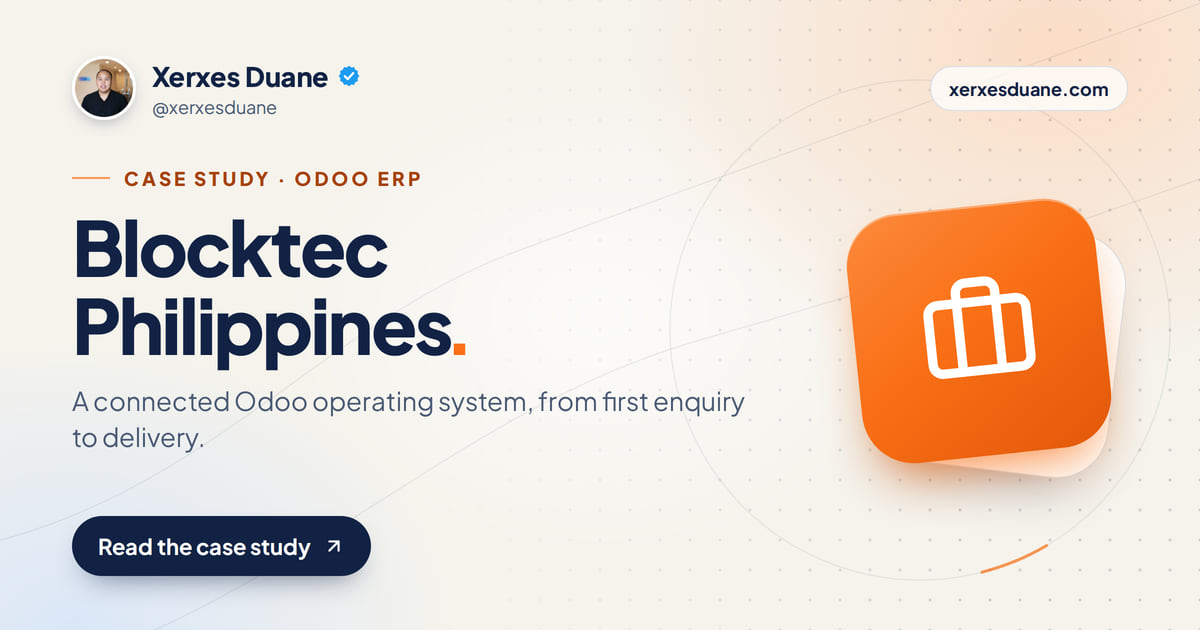
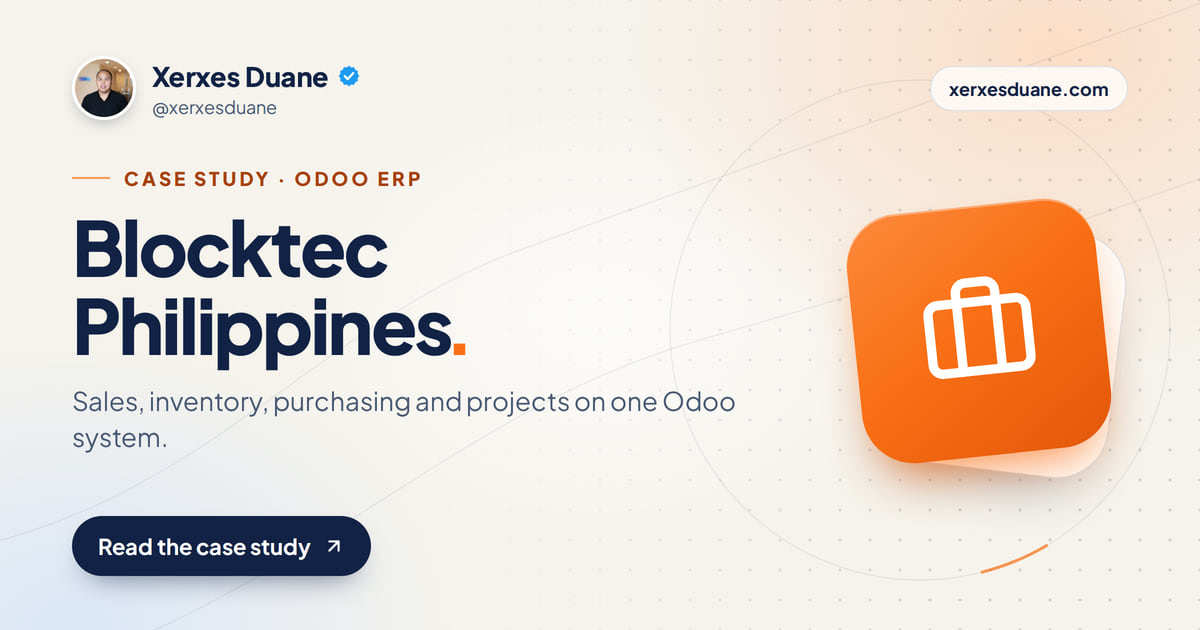
Blocktec case study: Odoo Enterprise, phased rollout, handover, outcome
Adds the facts the owner confirmed on 9 Oct 2026: Odoo Enterprise; a
multi-phase rollout of more than four months; handed over to Blocktec's
team; sales, inventory, purchasing and projects now work from the same
records. Blocktec becomes the "Client result" panel on /odoo-erp-dubai.

The outcome footnote on case-study pages was hard-coded to Bee Thrive's
caveat (repeat enquiries, ChatGPT attribution) and would have shown under
any study with outcomes; it is now a per-study `outcomesNote`. New share
card, so OG_IMAGE_VERSION is bumped.

Claude-Session: https://claude.ai/code/session_01J4BMNAVeyfMRXf7zEAakke

Changed region(s): [[0.0617, 0.6032, 0.6167, 0.7238]]

diff --git a/src/data/content.ts b/src/data/content.ts
@@ -351,6 +351,8 @@ export interface CaseStudy {
   url?: string;
   /** Qualitative outcomes confirmed by the project owner, without invented metrics. */
   outcomes?: { title: string; detail: string }[];
+  /** Where the outcomes come from, shown under them. Per study, so one client's caveat never appears on another's page. */
+  outcomesNote?: string;
   /** The enquiry journey, when it is documented for this project. */
   journey?: { title: string; detail: string }[];
 }
@@ -383,6 +385,8 @@ export const CASE_STUDIES: CaseStudy[] = [
       { title: "A site visit", detail: "Bee Thrive attended an ocular visit: an on-site assessment of the prospective customer's cleaning requirements." },
       { title: "ChatGPT attribution", detail: "One received office-cleaning enquiry was tagged with ChatGPT as its source by the website's tracking." },
     ],
+    outcomesNote:
+      "Repeat enquiries and the site visit confirmed by Xerxes Duane. The enquiry message records ChatGPT as its attributed source.",
     journey: [
       { title: "Office-cleaning page", detail: "The received enquiry identifies the office-cleaning page's header as the starting point." },
       { title: "WhatsApp enquiry", detail: "The message carries the requested service and the website's attributed source." },
@@ -425,14 +429,14 @@ export const CASE_STUDIES: CaseStudy[] = [
   {
     slug: "blocktec-odoo-erp",
     metaDescription:
-      "Odoo ERP for Blocktec Philippines, a construction materials business: enquiry, quotation, purchasing, inventory and project delivery in one system.",
+      "Odoo Enterprise for Blocktec Philippines, a construction materials business: sales, inventory, purchasing and projects on one system, rolled out in phases.",
     client: "Blocktec Philippines",
     location: "Philippines · Construction Materials",
     category: "Odoo ERP",
     challenge:
       "A construction materials and AAC wall-systems company ran on disconnected spreadsheets, manual tracking, and fragmented communication between departments. The goal: one platform for the whole operation.",
     summary:
-      "A connected Odoo operating system designed around the flow from first enquiry through quotation, purchasing, inventory, project delivery, and online sales.",
+      "A connected Odoo Enterprise system designed around the flow from first enquiry through quotation, purchasing, inventory, project delivery, and online sales, rolled out in phases over more than four months and then handed over to Blocktec's team.",
     approach: [
       "Mapped the existing handoffs and duplicate work before configuring any modules",
       "Phased the rollout around the team's day-to-day operations",
@@ -452,7 +456,15 @@ export const CASE_STUDIES: CaseStudy[] = [
       "Marketing automation",
     ],
     takeaway:
-      "Customer inquiries, quotations, inventory, purchasing, and online operations, run from one unified Odoo platform.",
+      "Sales, inventory, purchasing and projects working from the same records, in one Odoo system the team now runs.",
+    // Edition, timeline, handover and the outcome confirmed by the owner,
+    // 9 Oct 2026. No metrics: none were supplied.
+    outcomes: [
+      { title: "One system across teams", detail: "Sales, inventory, purchasing and projects now work from the same Odoo records instead of separate spreadsheets." },
+      { title: "Phased rollout", detail: "Odoo Enterprise went live in phases over more than four months." },
+      { title: "Handed over", detail: "Once live, the system was handed over to Blocktec's own team to run." },
+    ],
+    outcomesNote: "Edition, timeline, handover and outcome confirmed by Xerxes Duane.",
   },
   {
     slug: "saladmaster-crm-web",

diff --git a/src/data/servicePages.ts b/src/data/servicePages.ts
@@ -175,7 +175,8 @@ export const SERVICE_PAGES: ServicePageData[] = [
       "Teams that need inventory, invoicing, and CRM in one place",
       "Owners who want Odoo run for them, not dumped on them",
     ],
-    caseStudyClient: "Blocktec Philippines",
+    // A documented outcome now, so it leads as a "Client result" panel.
+    resultStudyClient: "Blocktec Philippines",
     glance: {
       question: "What does Odoo implementation in Dubai involve?",
       answer:
@@ -184,8 +185,8 @@ export const SERVICE_PAGES: ServicePageData[] = [
         { label: "Who it's for", value: "Small and growing UAE businesses, typically trading, retail and service companies, running on spreadsheets and apps that do not share data." },
         { label: "What you get", value: "Only the modules you need, configured in order; data migrated and tested before launch; connections to your website and payment tools; ongoing administration." },
         { label: "Starting price", value: `${cap(from("odoo-erp-dubai"))} for a rollout, plus Odoo's own licence where Enterprise is needed. ${NONPROFIT.label} for registered charities.` },
-        { label: "Timeline", value: "A focused rollout of the core modules usually takes a few weeks; larger scopes are phased." },
-        { label: "Proof", value: "Blocktec Philippines: enquiry, quotation, purchasing, inventory and project delivery in one Odoo system." },
+        { label: "Timeline", value: "A focused rollout of the core modules usually takes a few weeks; larger scopes are phased (Blocktec's full rollout ran over more than four months)." },
+        { label: "Proof", value: "Blocktec Philippines: Odoo Enterprise rolled out in phases, with sales, inventory, purchasing and projects on the same records, then handed over to their team." },
         { label: "Next step", value: "A free 60-minute systems audit, then a written fixed-price proposal." },
       ],
     },

diff --git a/src/pages/CaseStudyPage.tsx b/src/pages/CaseStudyPage.tsx
@@ -139,10 +139,9 @@ export default function CaseStudyPage({ study }: { study: CaseStudy }) {
                   </div>
                 ))}
               </div>
-              <p className="mt-3 text-xs leading-relaxed text-fg-faint">
-                Repeat enquiries and the site visit confirmed by Xerxes Duane.
-                The enquiry message records ChatGPT as its attributed source.
-              </p>
+              {study.outcomesNote && (
+                <p className="mt-3 text-xs leading-relaxed text-fg-faint">{study.outcomesNote}</p>
+              )}
             </>
           )}
           <div className="mt-2 flex flex-wrap items-center gap-4">

diff --git a/src/lib/seo.ts b/src/lib/seo.ts
@@ -63,7 +63,7 @@ const DEFAULT_OG_IMAGE = ogCard("home");
  * OG image by URL for weeks, so a versioned query string forces them to fetch
  * the current image instead of serving a stale (or wrong) cached one.
  */
-const OG_IMAGE_VERSION = "10";
+const OG_IMAGE_VERSION = "11";
 
 /** Absolute, cache-busted share-image URL for a page. */
 function ogImageUrl(image?: string): string {

diff --git a/docs/case-study-briefs.md b/docs/case-study-briefs.md
@@ -17,26 +17,21 @@ Rules, the same as the rest of the site:
 
 ---
 
-## 1. Odoo: Blocktec Philippines (published, needs outcomes)
+## 1. Odoo: Blocktec Philippines (updated 9 Oct 2026)
 
-**Already public** (`/case-studies/blocktec-odoo-erp`): construction materials
-and AAC wall systems; moved from spreadsheets and manual tracking to one Odoo
-platform covering CRM, sales/quotations, inventory, purchasing, accounting
-integration, project management, website/e-commerce and marketing automation;
-phased rollout.
+**Now public** (`/case-studies/blocktec-odoo-erp`), confirmed by the owner:
+Odoo Enterprise; a multi-phase rollout of more than four months; handed over
+to Blocktec's own team after go-live; outcome: sales, inventory, purchasing and
+projects now work from the same records. Shown as the "Client result" on
+`/odoo-erp-dubai`.
 
-**To confirm**
+**Still to confirm (optional)**
 
-- [ ] Odoo version and edition (Community or Enterprise), and the year it went live
-- [ ] How long the rollout took, from kickoff to go-live
-- [ ] Number of users / departments now in the system
-- [ ] What happened to the spreadsheets: retired entirely, or only for some processes?
-- [ ] One concrete before/after the client would agree with (for example, "quotes now come from the system instead of Excel", or time to prepare a quotation)
-- [ ] Are you still supporting the system? (Supports the "run and supported, not abandoned" claim on `/odoo-erp-dubai`)
+- [ ] Year it went live and Odoo version
+- [ ] Number of users / departments in the system
 - [ ] OK to keep naming Blocktec?
 
-**Better still for Dubai buyers:** a UAE Odoo client, even anonymised. If you
-have one, answer the same questions for it.
+**Better still for Dubai buyers:** a UAE Odoo client, even anonymised.
 
 ---
 
